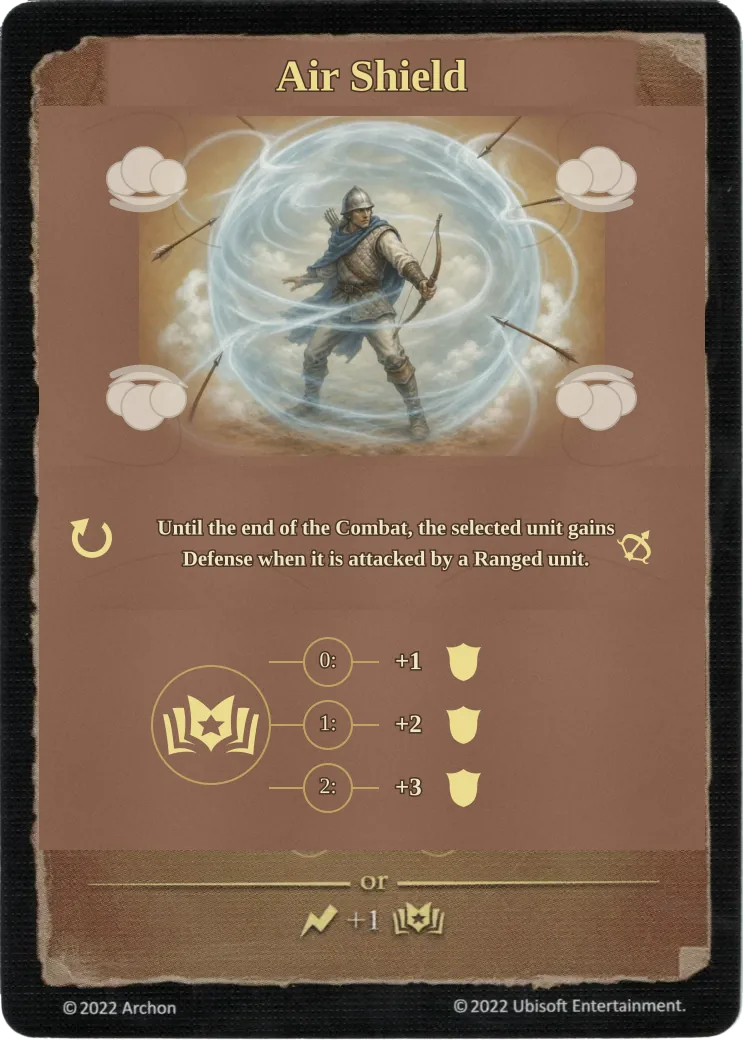
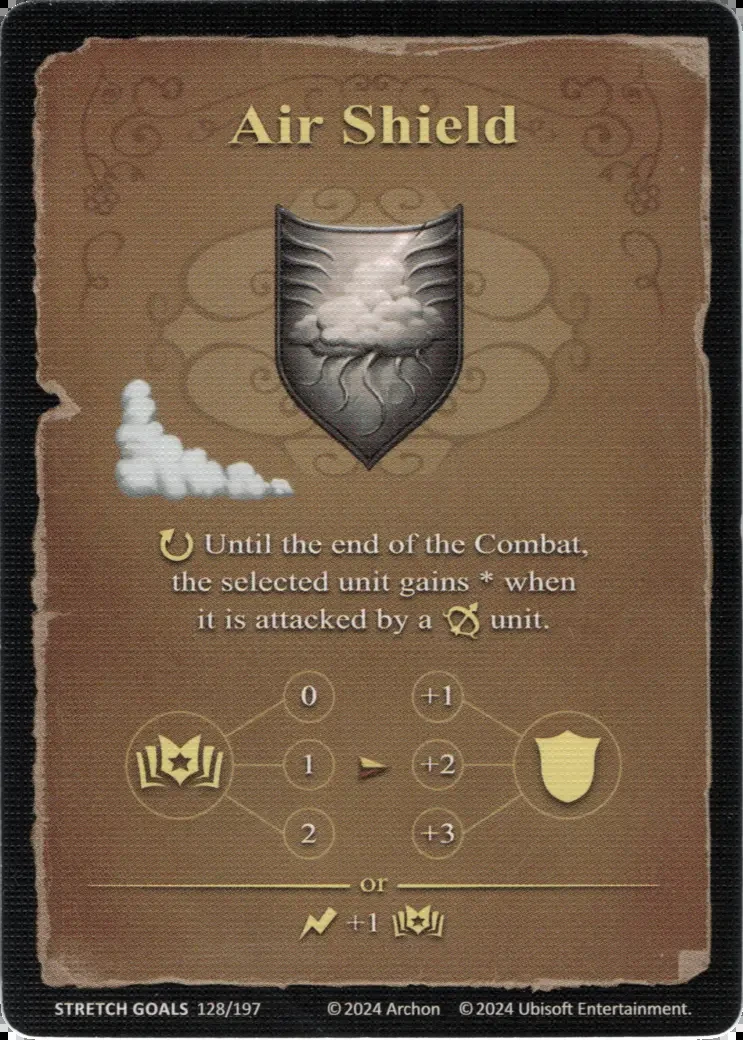
Pile browser shows Empowered ability faces; Torosar = Alchemist; Air Shield/Water Walk scans
- PileModal/PileModalCards take the pile OWNER's empoweredAbilities (threaded
  from PlayerDock, CombatOwnPiles, AdventureOwnDeck and page.tsx state), so a
  browsed discard pile renders the printed Empowered face + badge for an
  empowered ability; shared-deck piles pass nothing (nobody owns those);
  AdventureOwnDeck's discard-top face swaps too. Pinned with an
  owner-empowered case, a not-empowered CONTROL and the intrinsic-statistic
  case in empowered-card-highlight.test.tsx
- Torosar's class follows his printed board scan: Wizard -> Alchemist
  (user ruling 2026-08-04; wiki table still says Wizard)
- spells-air_shield.webp + spells-water_walk.webp: real printed 743x1040
  wiki scans replace the locally generated art (titles verified per face);
  added to fetch-spell-art-refresh.py
- full suite green: 657 files, 8547 passed

diff --git a/src/components/adventure/screen.tsx b/src/components/adventure/screen.tsx
@@ -156,7 +156,8 @@ import { COMMANDER_ARTIFACT_SPECS, COMMANDER_ARTIFACT_SPEC_LIST } from "@/data/w
 import { UNIT_RANK_THRESHOLDS, unitRankBadgeImage } from "@/data/units/experience";
 import { factionUiLexicon } from "@/data/faction-theme";
 import { CARD_BACK_IMAGES, getDeckBack } from "@/data/decks";
-import { actionKey, cardName, formatCost, isEmpoweredStatisticCard, titleCase } from "@/components/table/utils";
+import { actionKey, cardIsEmpoweredFor, cardName, formatCost, titleCase } from "@/components/table/utils";
+import { cardFaceImage } from "@/data/cards/empowered-card-art";
 import { beginUnitPointerDrag } from "@/components/table/pointer-drag";
 import { MAP_SCALE_MAX, MAP_SCALE_MIN, pinchCamera, type PinchStart } from "@/components/adventure/map-pinch";
 import { computeMapFloatPosition } from "@/components/adventure/map-float-position";
@@ -6719,17 +6720,25 @@ export function AdventureOwnDeck({
 }: {
   view: PlayerVisibleState;
   viewerPlayerId: PlayerId;
-  onShowPile: (title: string, cardIds: string[], kind: "cards" | "units" | "astrologers" | "events") => void;
+  onShowPile: (
+    title: string,
+    cardIds: string[],
+    kind: "cards" | "units" | "astrologers" | "events",
+    empoweredAbilities?: string[]
+  ) => void;
 }) {
   const player = view.players[viewerPlayerId];
   if (!player) {
     return null;
   }
 
-  // Top of the discard is face-up — show the actual card graphic (not a bare count).
+  // Top of the discard is face-up — show the actual card graphic (not a bare
+  // count); an Empowered ability shows its printed Empowered face.
   const topDiscardId = player.discard.length > 0 ? player.discard[player.discard.length - 1] : undefined;
   const topDiscard = topDiscardId ? cardLibrary[topDiscardId] : undefined;
-  const topImage = topDiscard?.assets?.cardImage;
+  const topImage =
+    cardFaceImage(topDiscardId, cardIsEmpoweredFor(topDiscardId, player.empoweredAbilities)) ??
+    topDiscard?.assets?.cardImage;
 
   return (
     <div className="ownDeckPile" aria-label="Your deck and discard">
@@ -6745,7 +6754,7 @@ export function AdventureOwnDeck({
       <button
         className={`ownDiscardSpot${topDiscardId ? " hasCard" : ""}`}
         data-fx-anchor={`discard:${viewerPlayerId}`}
-        onClick={() => onShowPile(`${player.name} — discard pile`, player.discard, "cards")}
+        onClick={() => onShowPile(`${player.name} — discard pile`, player.discard, "cards", player.empoweredAbilities)}
         title={
           topDiscard
             ? `Discard top: ${topDiscard.name} (${player.discard.length} total) — click to browse`
@@ -6782,7 +6791,13 @@ export function AdventureDecksPanel({
 }: {
   view: PlayerVisibleState;
   viewerPlayerId: PlayerId;
-  onShowPile: (title: string, cardIds: string[], kind: "cards" | "units" | "astrologers" | "events") => void;
+  /** Shared-deck piles have no owner, so no empoweredAbilities is ever passed here. */
+  onShowPile: (
+    title: string,
+    cardIds: string[],
+    kind: "cards" | "units" | "astrologers" | "events",
+    empoweredAbilities?: string[]
+  ) => void;
   onAction?: (action: GameAction) => void;
   /** Deck ids the active player's Rogues may scout this turn. */
   scoutableDeckIds?: Set<string>;
@@ -7001,11 +7016,14 @@ export function PileModal({
   title,
   cardIds,
   kind,
+  empoweredAbilities,
   onClose
 }: {
   title: string;
   cardIds: string[];
   kind: "cards" | "units" | "astrologers" | "events";
+  /** The pile OWNER's empowered ability card ids (absent for shared decks). */
+  empoweredAbilities?: string[];
   onClose: () => void;
 }) {
   return (
@@ -7023,13 +7041,21 @@ export function PileModal({
             Discarded proclamations are shown newest first. The top card is the last resolved Astrologers event.
           </small>
         ) : null}
-        <PileModalCards cardIds={cardIds} kind={kind} />
+        <PileModalCards cardIds={cardIds} kind={kind} empoweredAbilities={empoweredAbilities} />
       </div>
     </div>
   );
 }
 
-function PileModalCards({ cardIds, kind }: { cardIds: string[]; kind: "cards" | "units" | "astrologers" | "events" }) {
+function PileModalCards({
+  cardIds,
+  kind,
+  empoweredAbilities
+}: {
+  cardIds: string[];
+  kind: "cards" | "units" | "astrologers" | "events";
+  empoweredAbilities?: string[];
+}) {
   const { zoomCard, zoomContent } = useCardZoom();
 
   return (
@@ -7039,14 +7065,20 @@ function PileModalCards({ cardIds, kind }: { cardIds: string[]; kind: "cards" | 
         const unit = kind === "units" ? coreUnitDefinitions[cardId] : undefined;
         const astro = kind === "astrologers" ? astrologersCardDefinitions[cardId] : undefined;
         const eventCard = kind === "events" ? eventCardDefinitions[cardId] : undefined;
-        const image = card?.assets?.cardImage ?? unit?.neutral?.cardImage ?? astro?.image ?? eventCard?.image;
-        // Empowered Statistics are intrinsic, so a pile browse can flag them
-        // from the card alone; Empowered abilities are per-owner and shown where
-        // the owner is known (hand fan, trays, discard tops).
-        const empowered = kind === "cards" && isEmpoweredStatisticCard(cardId);
+        // Empowered Statistics are intrinsic (flagged from the card alone);
+        // Empowered ABILITIES are per-owner — the pile producers pass the
+        // owner's empoweredAbilities so a browsed pile shows the printed
+        // Empowered face too (shared decks pass nothing: nobody owns those).
+        const empowered = kind === "cards" && cardIsEmpoweredFor(cardId, empoweredAbilities);
+        const image =
+          (kind === "cards" ? cardFaceImage(cardId, empowered) : undefined) ??
+          card?.assets?.cardImage ??
+          unit?.neutral?.cardImage ??
+          astro?.image ??
+          eventCard?.image;
         const zoom = () =>
           card
-            ? zoomCard(cardId)
+            ? zoomCard(cardId, empowered)
             : zoomContent({
                 title: eventCard?.name ?? astro?.name ?? unit?.name ?? cardId,
                 image,

diff --git a/src/components/table/empowered-card-highlight.test.tsx b/src/components/table/empowered-card-highlight.test.tsx
@@ -6,6 +6,7 @@ import { cardIsEmpoweredFor, isEmpoweredStatisticCard } from "./utils";
 import { cardZoomContent } from "./zoom";
 import { CardZoomProvider } from "./zoom";
 import { cardLibrary } from "@/data/cards/library";
+import { PileModal } from "@/components/adventure/screen";
 import { createInitialGameState, getLegalActions, getPlayerView, type GameState } from "@/engine";
 
 afterEach(cleanup);
@@ -147,6 +148,52 @@ describe("empowered card FACE — the printed Empowered scan replaces the base a
       "/assets/statistics-attack-empowered.webp"
     );
     expect(cardZoomContent("stat.attack").image).toBe("/assets/statistics-attack.webp");
+  });
+});
+
+describe("PileModal — the pile browser shows the owner's empowered abilities", () => {
+  // The pile browser used to know only intrinsic Empowered Statistics; an
+  // Empowered ABILITY in a browsed discard pile rendered its base face with no
+  // cue (user rule 2026-08-04: "MUST SHOW EMPOWERED ABILITY, WITH CORRECT
+  // IMAGE"). The producers now pass the pile OWNER's empoweredAbilities.
+  const pileSrc = (container: HTMLElement) =>
+    container.querySelector<HTMLImageElement>(".pileCardButton img")?.getAttribute("src") ?? "";
+
+  it("renders the empowered face + badge for an ability the pile owner empowered", () => {
+    const { container } = render(
+      <CardZoomProvider>
+        <PileModal
+          title="P1 — discard pile"
+          cardIds={["ability.offense"]}
+          kind="cards"
+          empoweredAbilities={["ability.offense"]}
+          onClose={() => {}}
+        />
+      </CardZoomProvider>
+    );
+    expect(pileSrc(container)).toContain("abilities-offense-empowered.webp");
+    expect(within(container).getAllByText("Empowered")).toHaveLength(1);
+  });
+
+  it("CONTROL: the same ability in a pile whose owner did NOT empower it keeps the base face", () => {
+    const { container } = render(
+      <CardZoomProvider>
+        <PileModal title="P1 — discard pile" cardIds={["ability.offense"]} kind="cards" onClose={() => {}} />
+      </CardZoomProvider>
+    );
+    expect(pileSrc(container)).toContain("abilities-offense.webp");
+    expect(pileSrc(container)).not.toContain("empowered");
+    expect(within(container).queryByText("Empowered")).toBeNull();
+  });
+
+  it("an Empowered Statistic still flags intrinsically with no owner list (shared decks)", () => {
+    const { container } = render(
+      <CardZoomProvider>
+        <PileModal title="Spells — discard pile" cardIds={["stat.attack.empowered"]} kind="cards" onClose={() => {}} />
+      </CardZoomProvider>
+    );
+    expect(pileSrc(container)).toContain("statistics-attack-empowered.webp");
+    expect(within(container).getAllByText("Empowered")).toHaveLength(1);
   });
 });
 

diff --git a/src/app/page.tsx b/src/app/page.tsx
@@ -828,7 +828,13 @@ export default function Home() {
     window.addEventListener("keydown", closeOnEscape);
     return () => window.removeEventListener("keydown", closeOnEscape);
   }, [leftRailExpanded]);
-  const [pile, setPile] = useState<{ title: string; cardIds: string[]; kind: "cards" | "units" | "astrologers" | "events" } | null>(null);
+  const [pile, setPile] = useState<{
+    title: string;
+    cardIds: string[];
+    kind: "cards" | "units" | "astrologers" | "events";
+    /** The pile owner's Empowered ability ids (absent for shared decks). */
+    empoweredAbilities?: string[];
+  } | null>(null);
   const [dice, setDice] = useState<{ current: DiceCue | null; queue: DiceCue[] }>({
     current: null,
     queue: []
@@ -5915,7 +5921,7 @@ export default function Home() {
           <div className="advDecksBottom">
             <AdventureDecksPanel
               onAction={submitAction}
-              onShowPile={(title, cardIds, kind) => setPile({ title, cardIds, kind })}
+              onShowPile={(title, cardIds, kind, empoweredAbilities) => setPile({ title, cardIds, kind, empoweredAbilities })}
               scoutableDeckIds={
                 new Set(
                   legalActions.flatMap((legal) =>
@@ -5968,7 +5974,7 @@ export default function Home() {
               <div className="ownDeckColumn" aria-label="Your deck, discard, and Spell Book">
                 <div className="ownDeckToolsRow">
                   <AdventureOwnDeck
-                    onShowPile={(title, cardIds, kind) => setPile({ title, cardIds, kind })}
+                    onShowPile={(title, cardIds, kind, empoweredAbilities) => setPile({ title, cardIds, kind, empoweredAbilities })}
                     view={playerView}
                     viewerPlayerId={viewerPlayerId}
                   />
@@ -6929,7 +6935,7 @@ export default function Home() {
           {isSeated ? (
             <div className="tableSeatRow">
               <PlayerDock
-                onShowPile={(title, cardIds, kind) => setPile({ title, cardIds, kind })}
+                onShowPile={(title, cardIds, kind, empoweredAbilities) => setPile({ title, cardIds, kind, empoweredAbilities })}
                 state={state}
                 view={playerView}
                 viewerPlayerId={viewerPlayerId}

diff --git a/src/components/table/seats.tsx b/src/components/table/seats.tsx
@@ -1233,7 +1233,12 @@ export function PlayerDock({
   view: PlayerVisibleState;
   viewerPlayerId: PlayerId;
   /** Open the full discard (or other) pile browser — same surface as map mode. */
-  onShowPile?: (title: string, cardIds: string[], kind: "cards" | "units" | "astrologers" | "events") => void;
+  onShowPile?: (
+    title: string,
+    cardIds: string[],
+    kind: "cards" | "units" | "astrologers" | "events",
+    empoweredAbilities?: string[]
+  ) => void;
 }) {
   const player = view.players[viewerPlayerId];
   if (!player) {
@@ -1242,7 +1247,7 @@ export function PlayerDock({
 
   const topDiscardId = player.discard.length > 0 ? player.discard[player.discard.length - 1] : undefined;
   const openDiscard = () =>
-    onShowPile?.(`${player.name} — discard pile`, player.discard, "cards");
+    onShowPile?.(`${player.name} — discard pile`, player.discard, "cards", player.empoweredAbilities);
 
   return (
     <div className="playerDock" aria-label="Your decks and resources">
@@ -1308,7 +1313,12 @@ export function CombatOwnPiles({
 }: {
   view: PlayerVisibleState;
   viewerPlayerId: PlayerId;
-  onShowPile: (title: string, cardIds: string[], kind: "cards" | "units" | "astrologers" | "events") => void;
+  onShowPile: (
+    title: string,
+    cardIds: string[],
+    kind: "cards" | "units" | "astrologers" | "events",
+    empoweredAbilities?: string[]
+  ) => void;
 }) {
   const player = view.players[viewerPlayerId];
   if (!player) {
@@ -1331,7 +1341,7 @@ export function CombatOwnPiles({
       <button
         className={`combatOwnPile combatOwnDiscard${topDiscardId ? " hasCard" : ""}`}
         data-fx-anchor={`discard-bottom:${viewerPlayerId}`}
-        onClick={() => onShowPile(`${player.name} — discard pile`, player.discard, "cards")}
+        onClick={() => onShowPile(`${player.name} — discard pile`, player.discard, "cards", player.empoweredAbilities)}
         title={
           topDiscard
             ? `Discard top: ${topDiscard.name} (${player.discard.length} total) — click to browse`

diff --git a/src/data/factions/core.ts b/src/data/factions/core.ts
@@ -1716,7 +1716,9 @@ export const coreHeroDefinitions: Record<string, HeroDefinition> = {
     id: "torosar",
     name: "Torosar",
     faction: "tower",
-    class: "Wizard",
+    // The 2026-08 wiki board scan prints "Alchemist" (the wiki's hero TABLE
+    // says Wizard, but the printed card wins — user ruling 2026-08-04).
+    class: "Alchemist",
     type: "might",
     startingStats: { attack: 1, defense: 1, power: 2, knowledge: 2 },
     startingAbilityCardId: "ability.mysticism",

diff --git a/scripts/fetch-spell-art-refresh.py b/scripts/fetch-spell-art-refresh.py
@@ -56,6 +56,10 @@ DOWNLOADS = [
     ("spells-summon_earth_elemental.webp", "spells-summon_earth_elemental.webp"),
     ("spells-summon_fire_elemental.webp", "spells-summon_fire_elemental.webp"),
     ("spells-summon_water_elemental.webp", "spells-summon_water_elemental.webp"),
+    # 2026-08-04 follow-up: the wiki also republished these two, which were
+    # still locally generated art in this repo.
+    ("spells-air_shield.webp", "spells-air_shield.webp"),
+    ("spells-water_walk.webp", "spells-water_walk.webp"),
     # Ability: replaces the off-standard 726x1040 crop with the full printed card.
     ("abilities-interference.webp", "abilities-interference.webp"),
     # The Empowered twin is refreshed from the same source so the pair stays a
